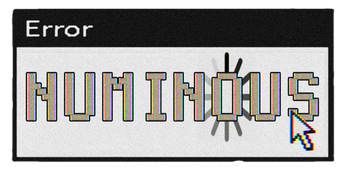
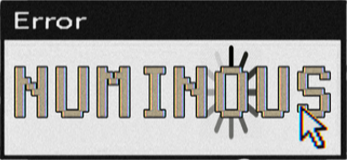
Ver 0.1.20
-Updates to text sizing, margins and paddings
-Added test images for each page

diff --git a/style/style.css b/style/style.css
@@ -69,7 +69,7 @@ font-family: 'Helvetic-Neue-Condensed-Bold', sans-serif;
 body {
     background-color: var(--dark-bg);
     color: var(--light-text);
-    font-size: calc((.9 - 1) * 1.2vw + 1rem);
+    font-size: calc((1 - 1) * 1.2vw + 1rem);
     font-family: 'IBM Plex Mono', monospace, sans-serif;
 }
 
@@ -115,14 +115,28 @@ a:hover {
     font-size: calc((2 - 1) * 1.2vw + 1rem);
 }
 
-/* .main-footer {
-    position: fixed;
-    left: 0;
-    right: 0;
-    bottom: 0;
-    height: 1rem;
-    background-color: var(--orange1);
-}  */
+.home-main {
+    position: relative;
+    z-index: 1;
+}
+
+@media (max-width: 768px) {
+    .home-nav {
+        flex-direction: column;
+        align-items: center;
+        gap: 0.45rem;
+    }
+
+    .home-nav-link {
+        padding-right: 0;
+        width: 100%;
+        text-align: center;
+    }
+
+    .random-bg-img {
+        display: none;
+    }
+}
 
 /* about page */
 .about-wrapper {
@@ -132,9 +146,13 @@ a:hover {
 
 .about-header {
     font-size: 2rem;
-    margin-bottom: 0.25rem;
+    margin-bottom: 1.5rem;
     border-bottom: solid 1px var(--orange1);
     width: fit-content;
+}
+
+.about-text, .about-socials, .about-email {
+    margin-left: 1rem;
 }
 
 /* art page */
@@ -151,14 +169,15 @@ a:hover {
 
 .lightbox-header {
     font-size: 2rem;
-    margin-bottom: 0.25rem;
+    margin-bottom: 1rem;
     border-bottom: solid 1px var(--orange1);
     width: fit-content;
 }
 
 .lightbox-text {
-    color: var(--gray1);
+    color: var(--light-text);
     margin-bottom: 1rem;
+    margin-left: 1rem;
 }
 
 .lightbox-grid {
@@ -211,7 +230,7 @@ a:hover {
 }
 
 .lightbox-caption {
-    color: var(--gray1);
+    color: var(--light-text);
     font-size: 0.95rem;
 }
 
@@ -247,13 +266,14 @@ a:hover {
 
 .proj-header {
     font-size: 2rem;
-    margin-bottom: 0.25rem;
+    margin-bottom: 1rem;
     border-bottom: solid 1px var(--orange1);
     width: fit-content;
 }
 .proj-text {
-    color: var(--gray1);
+    color: var(--light-text);
     margin-bottom: 1rem;
+    margin-left: 1rem;
 }
 
 .projects-item {
@@ -275,11 +295,11 @@ a:hover {
 }
 
 .proj-link {
-    color: var(--orange1);
+    color: var(--light-text);
 }
 
 .proj-link:hover {
-    color: var(--light-text);
+    color: var(--orange1);
 }
 
 .wd-img {
@@ -291,4 +311,15 @@ a:hover {
     margin-top: 0.5rem;
     border-bottom: solid 1px var(--orange1);
     width: fit-content;
+}
+
+.random-bg-img {
+    position: fixed;
+    right: 0;
+    bottom: 0;
+    width: clamp(9rem, 26vw, 22rem);
+    max-width: calc(100vw - 2rem);
+    max-height: 45vh;
+    height: auto;
+    z-index: 0;
 }

diff --git a/index.html b/index.html
@@ -20,6 +20,7 @@
         <a href="pages/about.html" class="home-nav-link">about</a>
         <a href="pages/art.html" class="home-nav-link">art</a>
         <a href="pages/projects.html" class="home-nav-link">projects</a>
+        <img class="random-bg-img" src="media/bgimages/fox_1.png" alt="vector-fox">
     </main>
     <footer class="main-footer"></footer>
     <script src="https://cdn.jsdelivr.net/npm/bootstrap@5.3.8/dist/js/bootstrap.bundle.min.js" integrity="sha384-FKyoEForCGlyvwx9Hj09JcYn3nv7wiPVlz7YYwJrWVcXK/BmnVDxM+D2scQbITxI" crossorigin="anonymous"></script>

diff --git a/pages/about.html b/pages/about.html
@@ -48,6 +48,7 @@
                         <p class="about-text"><a class="about-email" href="#mailto">[email redacted]</a></p>
                     </div>
                 </div>
+                <img class="random-bg-img" src="../media/bgimages/fox_1.png" alt="vector-fox">
             </main>
             <footer></footer>
         </div>

diff --git a/pages/art.html b/pages/art.html
@@ -55,6 +55,7 @@
             </div>
             <button class="lightbox-next" aria-label="Next (Right)">&#8250;</button>
         </div>
+        <img class="random-bg-img" src="../media/bgimages/fox_1.png" alt="vector-fox">
     </main>
     <footer></footer>
     <script src="https://cdn.jsdelivr.net/npm/bootstrap@5.3.8/dist/js/bootstrap.bundle.min.js" integrity="sha384-FKyoEForCGlyvwx9Hj09JcYn3nv7wiPVlz7YYwJrWVcXK/BmnVDxM+D2scQbITxI" crossorigin="anonymous"></script>

diff --git a/pages/projects.html b/pages/projects.html
@@ -58,6 +58,7 @@
 
             </div>
         </section>
+        <img class="random-bg-img" src="../media/bgimages/fox_1.png" alt="vector-fox">
     </main>
     <footer>
 

diff --git a/pages/projects/ena.html b/pages/projects/ena.html
@@ -59,6 +59,7 @@
                 </p>
             </div>
         </section>
+        <img class="random-bg-img" src="../../media/bgimages/fox_1.png" alt="vector-fox">
     </main>
 </body>
 </html>

diff --git a/pages/projects/numinous.html b/pages/projects/numinous.html
@@ -53,6 +53,7 @@
                 <p class="proj-text">roughly 98% of the sounds used as sound effects were recorded by me. while I did not edit the sounds, the audio engineer and I recorded them all together.</p>
             </div>
 </p>
+<img class="random-bg-img" src="../media/bgimages/fox_1.png" alt="vector-fox">
     </main>
 </body>
 </html>